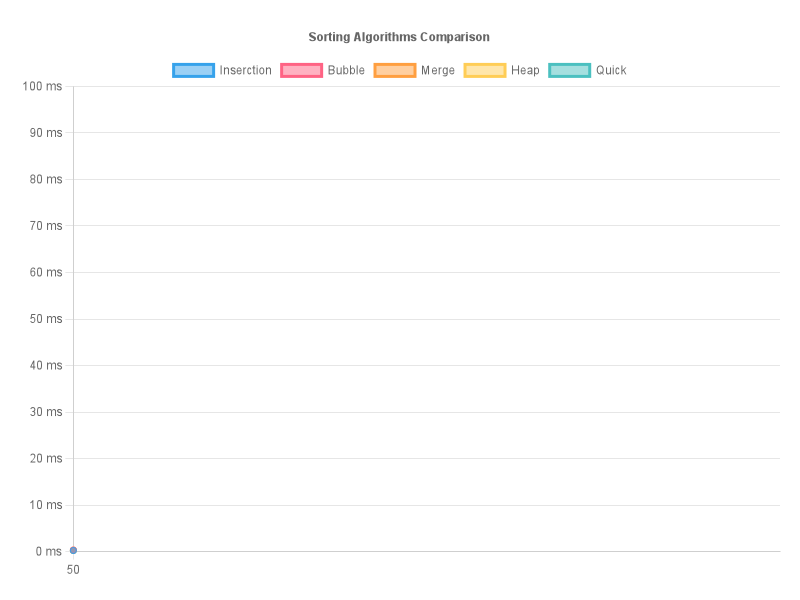
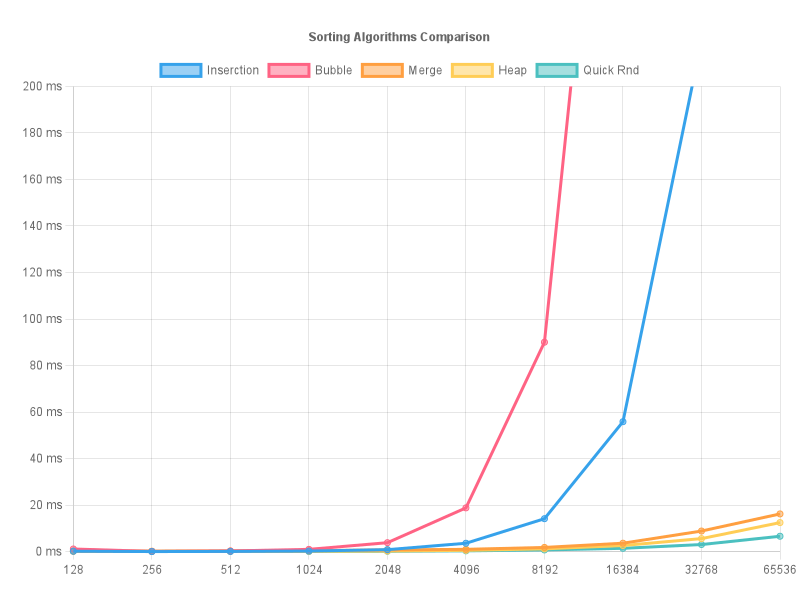
Feat: Implemented Quick Sort Randomized

diff --git a/core/AlgorithmAnalyzer.js b/core/AlgorithmAnalyzer.js
@@ -14,6 +14,7 @@ export default class AlgorithmAnalyzer {
     this.scenarioSizeArray = [];
     this.algorithmsFnArray = [];
     this.progressManager = null;
+    this.initialize();
   }
 
   /**
@@ -21,8 +22,6 @@ export default class AlgorithmAnalyzer {
    * an image that compares their performances for different scenarios.
    */
   initSimulation() {
-    this.initialize();
-
     let randomData = [];
     let increasingData = [];
     let decreasingData = [];
@@ -39,6 +38,7 @@ export default class AlgorithmAnalyzer {
 
     this.progressManager.startAnimation();
 
+    // Init Calculations of all algorithms
     this.algorithmsFnArray.forEach((algorithm, index) => {
       randomData.push({
         label: this.labels[index],
@@ -72,6 +72,8 @@ export default class AlgorithmAnalyzer {
     genGraphic(randomData, xAxisLabels, "random-scenario-comparison");
     genGraphic(increasingData, xAxisLabels, "increasing-scenario-comparison");
     genGraphic(decreasingData, xAxisLabels, "decreasing-scenario-comparison");
+
+    this.progressManager.updateProgress();
   }
 
   /**
@@ -164,11 +166,15 @@ export default class AlgorithmAnalyzer {
       return algorithmsSetup[algorithm].function;
     });
 
+    const arrayCases = 3;
+    const graphIterations = 1;
+
     this.progressManager = new ProgressManager(
       this.scenarioSizeArray.length *
         this.algorithmsFnArray.length *
         replications *
-        3,
+        arrayCases +
+        graphIterations,
       2000
     );
 

diff --git a/utils/ProgressManager.js b/utils/ProgressManager.js
@@ -27,12 +27,7 @@ export default class ProgressManager {
 
     if (this.progress >= this.totalIterations) {
       this.stopAnimation();
-
-      this.printRightsHeader();
-      console.log(
-        `!!!!!!!!!!!!!! Algoritmo Concluído com Sucesso :) !!!!!!!!!!!!!!`
-      );
-      this.printSystemInfo();
+      this.printFinishInfo();
     } else {
       this.drawProgressAnimation();
     }
@@ -117,5 +112,14 @@ export default class ProgressManager {
     console.log(
       "================================================================"
     );
+  }
+
+  printFinishInfo() {
+    this.printRightsHeader();
+    console.log(
+      `!!!!!!!!!!!!!! Algoritmo Concluído com Sucesso :) !!!!!!!!!!!!!!`
+    );
+    this.printSystemInfo();
+    this.printSimulationConfig();
   }
 }

diff --git a/algorithms/quickSortRnd.js b/algorithms/quickSortRnd.js
@@ -1,0 +1,39 @@
+export default (A) => {
+  return quickSortRnd(A, 0, A.length - 1);
+};
+
+function quickSortRnd(A, p, r) {
+  if (p < r) {
+    const q = partitionRnd(A, p, r);
+    quickSortRnd(A, p, q - 1);
+    quickSortRnd(A, q + 1, r);
+  }
+
+  return A;
+}
+
+function partitionRnd(A, p, r) {
+  const i = random(p, r);
+  [A[p], A[i]] = [A[i], A[p]];
+  return partition(A, p, r);
+}
+
+function partition(A, p, r) {
+  const x = A[r];
+  let i = p - 1;
+
+  for (let j = p; j <= r - 1; j++) {
+    if (A[j] <= x) {
+      i += 1;
+      [A[i], A[j]] = [A[j], A[i]];
+    }
+  }
+
+  [A[i + 1], A[r]] = [A[r], A[i + 1]];
+
+  return i + 1;
+}
+
+function random(min, max) {
+  return Math.floor(Math.random() * (max - min + 1)) + min;
+}

diff --git a/algorithms/algorithms-setup.js b/algorithms/algorithms-setup.js
@@ -3,6 +3,7 @@ import bubbleSort from "./bubbleSort.js";
 import mergeSort from "./mergeSort.js";
 import heapSort from "./heapSort.js";
 import quickSort from "./quickSort.js";
+import quickSortRnd from "./quickSortRnd.js";
 
 export default {
   INSERCTIONSORT: {
@@ -24,5 +25,9 @@ export default {
   QUICKSORT: {
     label: "Quick",
     function: quickSort,
+  },
+  QUICKSORTRND: {
+    label: "Quick Rnd",
+    function: quickSortRnd,
   },
 };

diff --git a/utils/GenGraphic.js b/utils/GenGraphic.js
@@ -22,6 +22,7 @@ export default (data, labels, graphName) => {
         y: {
           suggestedMin: 0,
           suggestedMax: 100,
+          max: 200,
           ticks: {
             callback: function (value) {
               return value + " ms";
